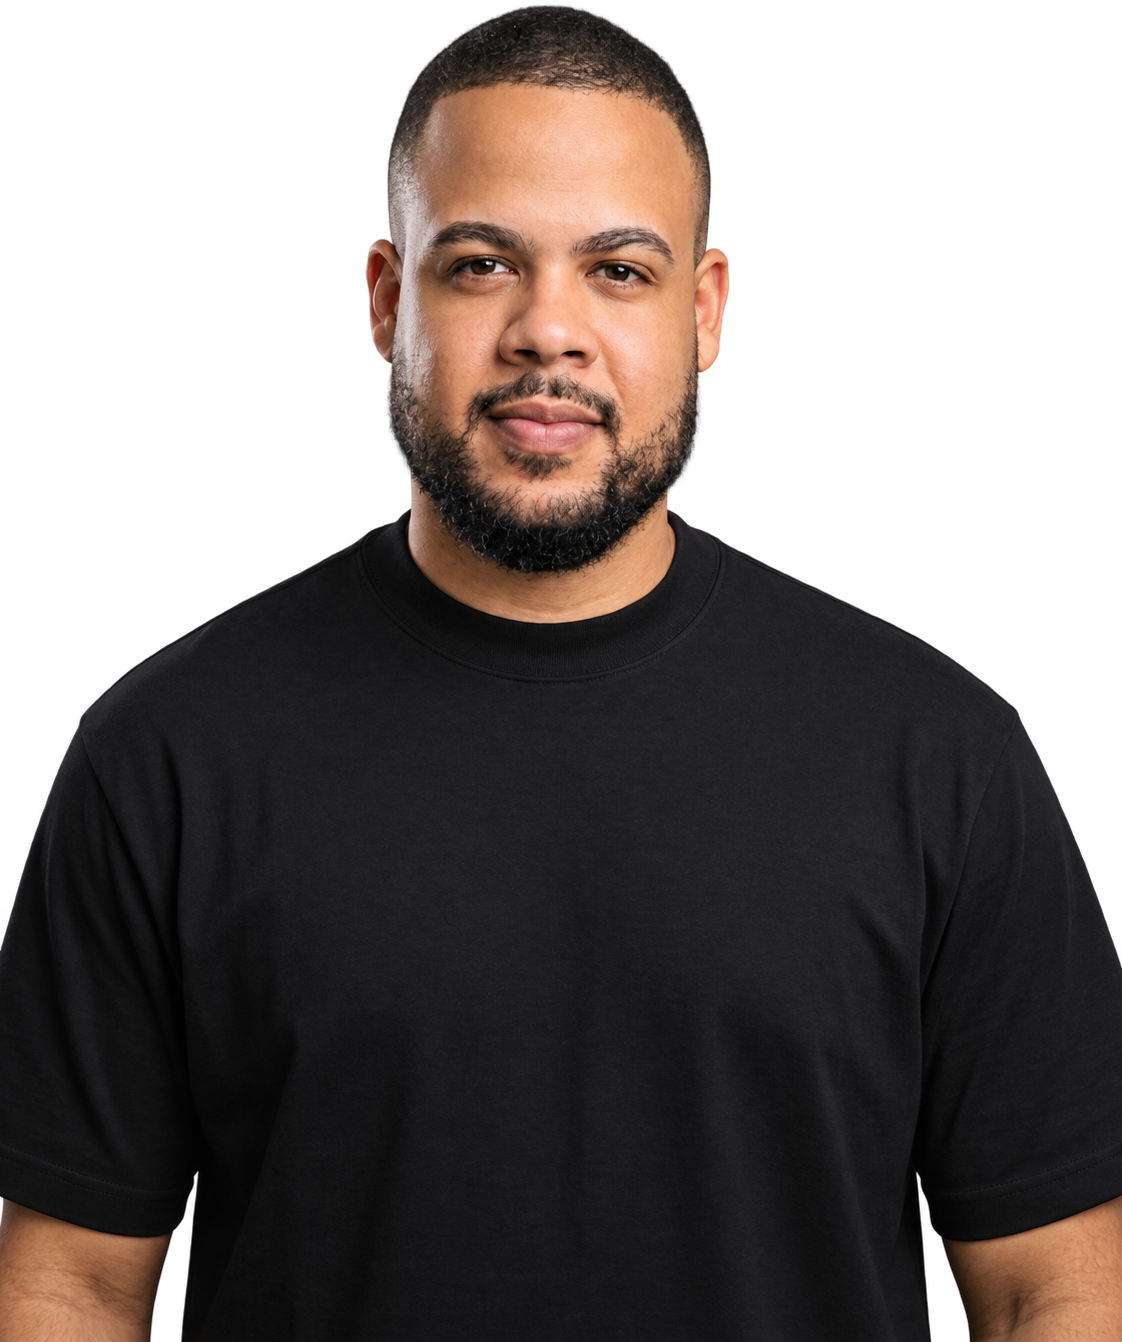
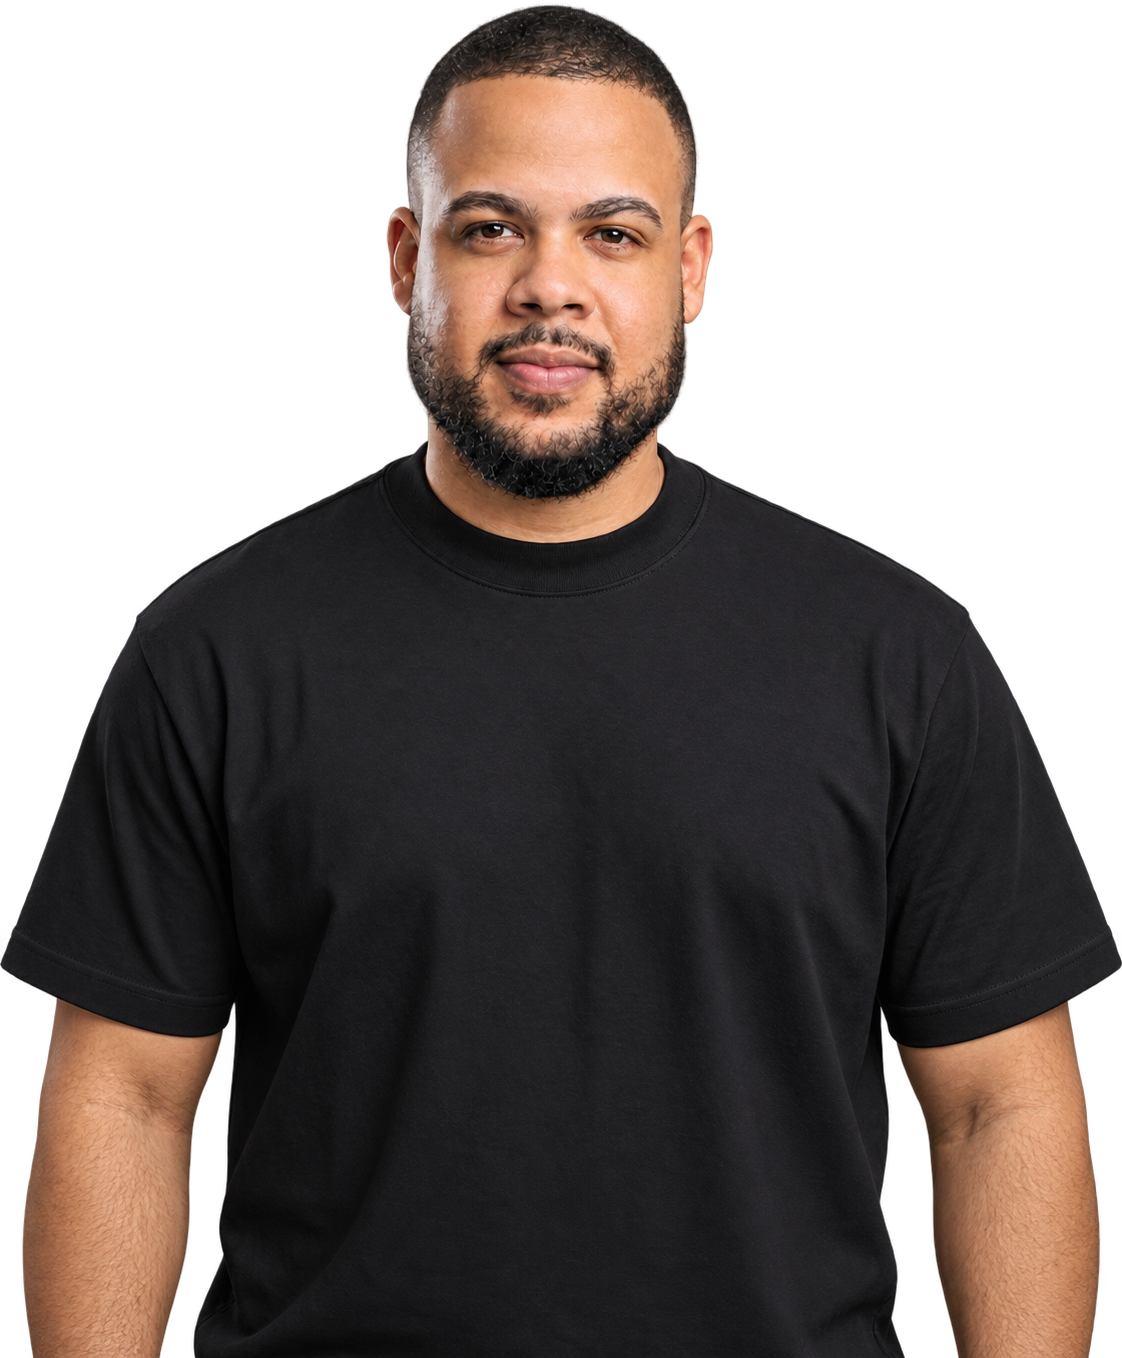
feat: foto nova e thumb até o vídeo carregar
Foto atualizada na hero e na imagem de compartilhamento, fade lateral nos braços e thumb dos projetos saindo com fade só quando o vídeo começa a tocar.

diff --git a/src/components/project-card.tsx b/src/components/project-card.tsx
@@ -62,6 +62,10 @@ export function ProjectTile({
   const [mounted, setMounted] = useState(false)
   if (active && !mounted) setMounted(true)
   if (!active && mounted && !keepVideo) setMounted(false)
+  // A thumb só sai quando o vídeo já está tocando: nada de card preto
+  const [videoReady, setVideoReady] = useState(false)
+  if (!mounted && videoReady) setVideoReady(false)
+  const showVideo = active && (!project.preview?.video || videoReady)
 
   return (
     <motion.article
@@ -89,7 +93,7 @@ export function ProjectTile({
           quality={90}
           className={cn(
             "object-cover transition-[transform,opacity] duration-[1400ms] ease-in-out",
-            active && project.preview ? "scale-105 opacity-0" : "scale-100",
+            showVideo && project.preview ? "scale-105 opacity-0" : "scale-100",
           )}
         />
       ) : (
@@ -100,11 +104,15 @@ export function ProjectTile({
         <div
           className={cn(
             "absolute inset-0 transition-opacity duration-700 ease-in-out",
-            active ? "opacity-100 delay-150" : "opacity-0",
+            showVideo ? "opacity-100" : "opacity-0",
           )}
         >
           {project.preview.video ? (
-            <VideoCapture video={project.preview.video} playing={active} />
+            <VideoCapture
+              video={project.preview.video}
+              playing={active}
+              onReady={setVideoReady}
+            />
           ) : project.preview.scroll && active ? (
             <ScrollCapture
               scroll={project.preview.scroll}
@@ -189,12 +197,14 @@ const Shimmer = () => (
 function VideoCapture({
   video,
   playing,
+  onReady,
 }: {
   video: NonNullable<NonNullable<Project["preview"]>["video"]>
   playing: boolean
+  /** Avisa quando o vídeo começa a tocar de fato (e quando para). */
+  onReady: (ready: boolean) => void
 }) {
   const ref = useRef<HTMLVideoElement>(null)
-  const [ready, setReady] = useState(false)
 
   useEffect(() => {
     const el = ref.current
@@ -206,24 +216,26 @@ function VideoCapture({
       el.play().catch(() => {})
     } else {
       el.pause()
+      onReady(false)
     }
-  }, [playing])
+  }, [playing, onReady])
 
   return (
-    <div className="bg-background absolute inset-0">
+    <div className="absolute inset-0">
       <video
         ref={ref}
         muted
         loop
         playsInline
         preload="auto"
-        onCanPlay={() => setReady(true)}
+        // "playing" = já tem quadro na tela; aí a thumb pode sair
+        onPlaying={() => onReady(true)}
+        onWaiting={() => onReady(false)}
         className="absolute inset-0 size-full object-cover object-top"
       >
         {video.webm && <source src={video.webm} type="video/webm" />}
         <source src={video.mp4} type="video/mp4" />
       </video>
-      {!ready && <Shimmer />}
     </div>
   )
 }

diff --git a/src/components/hero.tsx b/src/components/hero.tsx
@@ -102,10 +102,10 @@ function Portrait() {
           src="/jed-foto.png"
           alt="Jedson Santos, desenvolvedor full stack"
           width={1122}
-          height={1342}
+          height={1358}
           preload
           sizes="(min-width: 1280px) 520px, (min-width: 1024px) 420px, (min-width: 640px) 440px, 400px"
-          className="h-auto w-full drop-shadow-[0_0_60px_rgb(229_9_20/0.25)] [mask-image:linear-gradient(to_bottom,black_72%,transparent_99%)]"
+          className="h-auto w-full drop-shadow-[0_0_60px_rgb(229_9_20/0.25)] [mask-composite:intersect] [mask-image:linear-gradient(to_bottom,black_70%,transparent_99%),linear-gradient(to_right,transparent_0%,black_16%,black_84%,transparent_100%)]"
         />
       </motion.div>
 

diff --git a/src/app/opengraph-image.tsx b/src/app/opengraph-image.tsx
@@ -69,7 +69,7 @@ export default async function Image() {
           src={photo}
           alt=""
           width={470}
-          height={562}
+          height={569}
           style={{ position: "absolute", right: 40, bottom: 0 }}
         />
 
